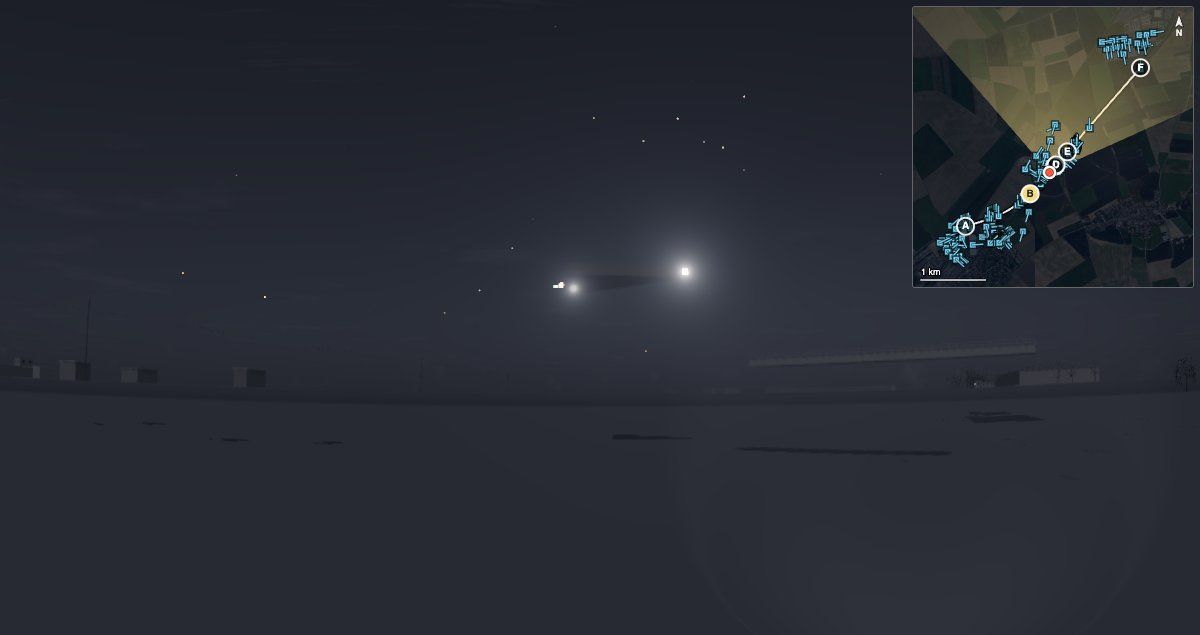
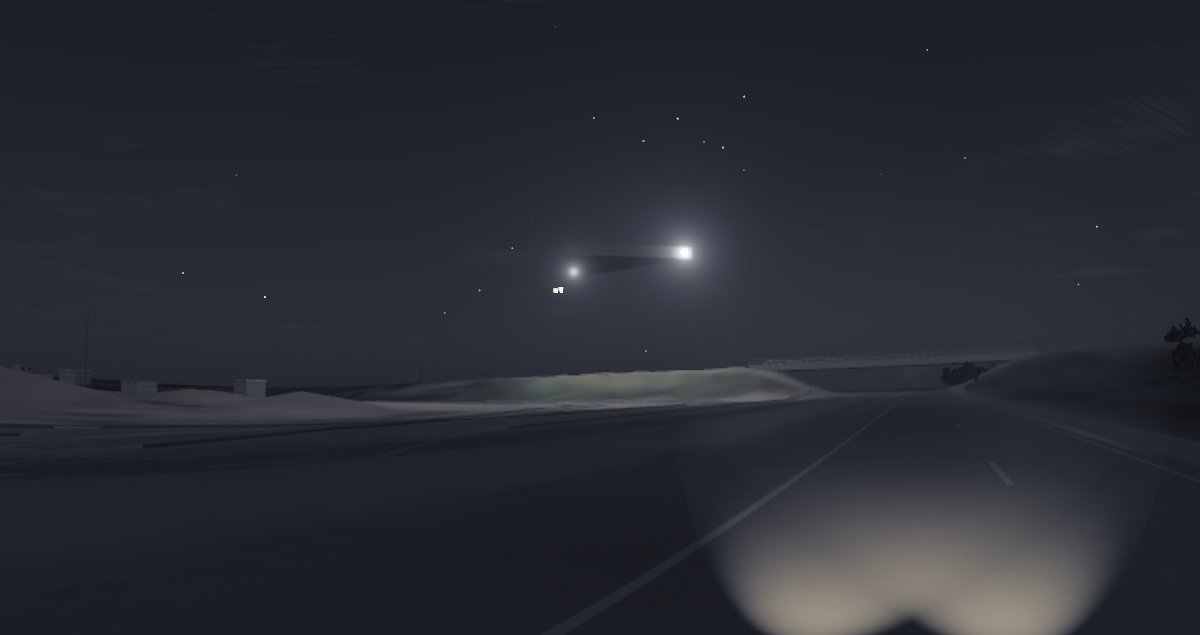
Sharper wide eye fields, ground under a recording opened late, grassy verges on tracks
- An eye wider than some 65 degrees tall is drawn through the cube: the single
  rectilinear source left its centre at 0.32 of a pixel per pixel at 75 degrees
  (Chelyabinsk's decor in blocks).
- The veil round a bright source lies across the line of sight to it, so every
  face of the cube draws the same disc (it ended on an arc).
- The frozen patch of relief is built for the last place asked while its list
  loads, not the first: Socorro and Silly opened late stood on flat ground.
- Tracks and paths: the grass of the verge reaches irregularly onto the earth.
- Covers redrawn without the observer's map, with their relief.

diff --git a/src/render3d/RoadSystem.ts b/src/render3d/RoadSystem.ts
@@ -10,6 +10,8 @@ export type GroundYAt = (x: number, z: number) => number
 
 /** Where a strip lies across its line at one rung: its middle, metres to the left of the direction of travel, and its half width. */
 type Lateral = { offsetM: number, halfM: number }
+/** Ribbons being laid for one mesh: their vertices and triangles, and for a track or a path where each vertex lies across its way (see RoadSystem.addGrain). */
+type RibbonBatch = { positions: number[], indices: number[], edges?: number[] }
 
 /** A street across, at one rung of its line, in metres to the left of the direction of travel (right is negative): the carriageway, and each pavement from its kerb to its outer edge. */
 interface StreetAcross {
@@ -158,11 +160,11 @@ export class RoadSystem {
     // is 490 — and five hundred draw calls to put down what is, visually, three materials would
     // cost more than everything else in the frame put together. They share a material anyway, so
     // there is nothing to lose by sharing a buffer.
-    const bySurface = new Map<RoadSurface, { positions: number[]; indices: number[] }>()
+    const bySurface = new Map<RoadSurface, RibbonBatch>()
     const paths = ways.map(way => way.points.map(point => geoToLocalMeters(point.lat, point.lng, originLat, originLng)))
     const streets = ways.map((way, at) => this.streetOf(way, paths[at], facades))
     for (const [at, way] of ways.entries()) {
-      const batch = bySurface.get(way.surface) ?? { positions: [], indices: [] }
+      const batch = bySurface.get(way.surface) ?? RoadSystem.batchFor(way.surface)
       bySurface.set(way.surface, batch)
       const street = streets[at]
       this.appendPath(paths[at], way.widthM, groundYAt, batch,
@@ -413,9 +415,9 @@ export class RoadSystem {
    */
   setStated(roads: StatedRoad[], groundYAt: GroundYAt): void {
     RoadSystem.empty(this.stated)
-    const bySurface = new Map<RoadSurface, { positions: number[]; indices: number[] }>()
+    const bySurface = new Map<RoadSurface, RibbonBatch>()
     for (const road of roads) {
-      const batch = bySurface.get(road.surface) ?? { positions: [], indices: [] }
+      const batch = bySurface.get(road.surface) ?? RoadSystem.batchFor(road.surface)
       bySurface.set(road.surface, batch)
       // z is the negated north axis, the same convention decor is placed under (see
       // GeoProjection, and SceneRenderer's own eastM/northM handling).
@@ -458,7 +460,7 @@ export class RoadSystem {
    * corner, and a road is mostly corners. The centre line is already in the patch's own metres.
    */
   private appendPath(
-    points: { x: number; z: number }[], widthM: number, groundYAt: GroundYAt, batch: { positions: number[]; indices: number[] },
+    points: { x: number; z: number }[], widthM: number, groundYAt: GroundYAt, batch: RibbonBatch,
     strip: {
       offsetM?: number, liftM?: number, minHalfM?: number, skip?: (x: number, z: number) => boolean,
       /** Where the strip lies across at each rung, in place of `offsetM` and the width: nothing is no strip at that rung. */
@@ -474,6 +476,7 @@ export class RoadSystem {
     const kept: boolean[] = []
     // Where each rung's three points stand on the ground plane: the left edge, the middle, the right edge.
     const rungs: { x: number; z: number }[][] = []
+    const halves: number[] = []
     for (let i = 0; i < centre.length; i++) {
       const before = centre[Math.max(0, i - 1)]
       const after = centre[Math.min(centre.length - 1, i + 1)]
@@ -491,6 +494,7 @@ export class RoadSystem {
       const middle = { x: centre[i].x + (-dz) * rungOffset, z: centre[i].z + dx * rungOffset }
       kept.push(lateral !== undefined && lateral.halfM > 0 && !strip.skip?.(middle.x, middle.z))
       rungs.push([{ x: middle.x + nx, z: middle.z + nz }, middle, { x: middle.x - nx, z: middle.z - nz }])
+      halves.push(rungHalf)
     }
     // A ribbon is flat between two points and the ground is not, and a road on an embankment is crowned: its middle stands higher than its edges. A
     // rung of two points laid a flat ribbon under the crown, and the ground showed through it in patches, which read as dark polygons lying on the road. So
@@ -510,6 +514,8 @@ export class RoadSystem {
     }
     for (let i = 0; i < rungs.length; i++) {
       for (let k = 0; k < 3; k++) batch.positions.push(rungs[i][k].x, heights[i][k] + lift, rungs[i][k].z)
+      // Left edge, middle, right edge: how far each is from the middle, and the half-width, for the grass of the verge (see addGrain).
+      batch.edges?.push(halves[i], halves[i], 0, halves[i], -halves[i], halves[i])
     }
     for (let i = 0; i < centre.length - 1; i++) {
       if (!kept[i] || !kept[i + 1]) continue
@@ -555,11 +561,18 @@ export class RoadSystem {
     }
   }
 
+  /** A batch of ribbons for one surface: with where each vertex lies across its way for a track or a path, whose verge is grass (see addGrain). */
+  private static batchFor(surface: RoadSurface): RibbonBatch {
+    return surface === "paved" ? { positions: [], indices: [] } : { positions: [], indices: [], edges: [] }
+  }
+
   /** All the roads of one surface as a single mesh — see set. */
-  private meshOf(surface: RoadSurface, batch: { positions: number[]; indices: number[] }, contemporary: boolean, albedoOf?: [number, number, number], grained = true): Mesh<BufferGeometry, MeshLambertMaterial> | undefined {
+  private meshOf(surface: RoadSurface, batch: RibbonBatch, contemporary: boolean, albedoOf?: [number, number, number], grained = true): Mesh<BufferGeometry, MeshLambertMaterial> | undefined {
     if (batch.indices.length === 0) return undefined
     const geometry = new BufferGeometry()
     geometry.setAttribute("position", new BufferAttribute(new Float32Array(batch.positions), 3))
+    const verge = batch.edges !== undefined && batch.edges.length * 3 === batch.positions.length * 2
+    if (verge) geometry.setAttribute("aEdge", new BufferAttribute(new Float32Array(batch.edges!), 2))
     geometry.setIndex(new BufferAttribute(new Uint32Array(batch.indices), 1))
     geometry.computeVertexNormals()
     const albedo = albedoOf ?? RoadSystem.ALBEDO[surface]
@@ -575,7 +588,7 @@ export class RoadSystem {
       polygonOffsetFactor: -2,
       polygonOffsetUnits: -2
     })
-    if (grained) this.addGrain(material, RoadSystem.GRAIN_CONTRAST[surface])
+    if (grained) this.addGrain(material, RoadSystem.GRAIN_CONTRAST[surface], verge)
     const mesh = new Mesh(geometry, material)
     mesh.name = `roads ${surface}`
     mesh.renderOrder = RoadSystem.RENDER_ORDER
@@ -591,18 +604,22 @@ export class RoadSystem {
    * surface's own metres (see GrassDetail on why not the world's), so that it goes by under a moving observer as a road does, and fading with the distance, as
    * each scale of it is let go of before it is finer than a pixel.
    */
-  private addGrain(material: MeshLambertMaterial, contrast: number): void {
+  private addGrain(material: MeshLambertMaterial, contrast: number, verge = false): void {
     const origin = this.grainOrigin
     material.onBeforeCompile = shader => {
       shader.uniforms.uRoadOrigin = { value: origin }
       shader.uniforms.uRoadContrast = { value: contrast }
+      if (verge) shader.defines = { ...shader.defines, ROAD_VERGE: "" }
       shader.vertexShader = shader.vertexShader
-        .replace("#include <common>", "#include <common>\nvarying vec2 vRoadXZ;\nuniform vec2 uRoadOrigin;")
-        .replace("#include <begin_vertex>", "#include <begin_vertex>\nvRoadXZ = position.xz + uRoadOrigin;")
+        .replace("#include <common>", "#include <common>\nvarying vec2 vRoadXZ;\nuniform vec2 uRoadOrigin;\n#ifdef ROAD_VERGE\nattribute vec2 aEdge;\nvarying vec2 vRoadEdge;\n#endif")
+        .replace("#include <begin_vertex>", "#include <begin_vertex>\nvRoadXZ = position.xz + uRoadOrigin;\n#ifdef ROAD_VERGE\nvRoadEdge = aEdge;\n#endif")
       shader.fragmentShader = shader.fragmentShader
         .replace("#include <common>", `#include <common>
 varying vec2 vRoadXZ;
 uniform float uRoadContrast;
+#ifdef ROAD_VERGE
+varying vec2 vRoadEdge;
+#endif
 float roadHash(vec2 p) {
   p = fract(p * vec2(123.34, 456.21));
   p += dot(p, p + 45.32);
@@ -623,10 +640,22 @@ float roadNoise(vec2 p) {
     + (roadNoise(vRoadXZ * 13.0) - 0.5) * 0.7 * (1.0 - smoothstep(9.0, 40.0, eye))
     + (roadNoise(vRoadXZ * 47.0) - 0.5) * 0.7 * (1.0 - smoothstep(2.5, 12.0, eye));
   diffuseColor.rgb *= 1.0 + grain * uRoadContrast;
+#ifdef ROAD_VERGE
+  // The verge: on a track or a path the grass of the field reaches onto the earth, in tufts and in tongues, and its edge is not a ruled line.
+  // Cut away where it does, so that the ground under it (its grass, see GrassDetail) is what is seen there. Near only: past some tens of
+  // metres the edge is under a pixel, and a cut there would only shimmer.
+  float vergeNear = 1.0 - smoothstep(20.0, 60.0, eye);
+  if (vergeNear > 0.0) {
+    float fromEdge = vRoadEdge.y - abs(vRoadEdge.x);
+    float reach = min(0.75, vRoadEdge.y * 0.4) * vergeNear
+      * (0.15 + 0.6 * roadNoise(vRoadXZ * 0.7) + 0.35 * roadNoise(vRoadXZ * 3.3) + 0.25 * roadNoise(vRoadXZ * 11.0));
+    if (fromEdge < reach) discard;
+  }
+#endif
 }`)
     }
     // A different program from every other Lambert material, which three tells apart by this key.
-    material.customProgramCacheKey = () => "rr0-road-grain"
+    material.customProgramCacheKey = () => verge ? "rr0-road-grain-verge" : "rr0-road-grain"
   }
 
   /**

diff --git a/src/render3d/EquidistantProjectionPass.ts b/src/render3d/EquidistantProjectionPass.ts
@@ -55,6 +55,14 @@ export class EquidistantProjectionPass {
    * exists to take away from an eye.
    */
   static readonly MAX_HALF_ANGLE_DEG = 80
+  /**
+   * The fewest pixels of the rectilinear source per pixel of the picture, at its centre, under which the cube is drawn instead (see
+   * centreDensity). The source has to reach the corners, so it spreads its pixels thinner the wider the field: 0.59 at 60° tall in 16:9,
+   * 0.42 at 70°, 0.32 at 75°, where the decor of Chelyabinsk was its render blown up three times, windows and firs in blocks. The cube's
+   * front face holds the picture's own density whatever the field, for some 50 % more to draw at 75° (2.5 → 3.7 ms at 780 × 440):
+   * from here, above some 65° tall, it is the sharper picture for its cost. The usual 60° keeps its single source.
+   */
+  static readonly MIN_CENTRE_DENSITY = 0.5
   /** The cube's faces never finer than this, whatever the frame — six of them are drawn per frame. */
   static readonly MAX_CUBE_FACE = 2048
 
@@ -228,7 +236,17 @@ export class EquidistantProjectionPass {
 
   /** Whether a field this wide can be served from one rectilinear source at all. */
   static supports(fovDeg: number, aspect: number): boolean {
-    return this.cornerHalfAngleDeg(fovDeg, aspect) <= this.MAX_HALF_ANGLE_DEG
+    return this.cornerHalfAngleDeg(fovDeg, aspect) <= this.MAX_HALF_ANGLE_DEG && this.centreDensity(fovDeg, aspect) >= this.MIN_CENTRE_DENSITY
+  }
+
+  /**
+   * How many pixels of the rectilinear source stand for one of the picture at its centre: the source's pixels per radian there,
+   * `(H/2)/tan(half its field)`, against the picture's, `H/field`, at the same height.
+   */
+  static centreDensity(fovDeg: number, aspect: number): number {
+    const cornerRad = (this.cornerHalfAngleDeg(fovDeg, aspect) * Math.PI) / 180
+    const sourceTanHalfY = Math.tan(cornerRad) / Math.hypot(aspect, 1)
+    return (fovDeg * Math.PI) / 180 / (2 * sourceTanHalfY)
   }
 
   resize(width: number, height: number): void {

diff --git a/src/render3d/SceneRenderer.ts b/src/render3d/SceneRenderer.ts
@@ -1687,6 +1687,8 @@ export class SceneRenderer {
 
   /** The list of frozen patches a build is waiting for, so that it is waited for once (see setTerrainOrigin). */
   private patchesAwaited?: TerrainPatchIndex
+  /** Where the observer was last asked to have ground under them while that list was awaited: what is built once it arrives (see setTerrainOrigin). */
+  private patchesAwaitedFor?: { lat: number, lng: number, onSettled?: () => void }
 
   /** The way the observer goes, as the recording's track gives it: what a bridge is to the ground depends on it (see ElevationHints). */
   private observerRoute?: readonly { lat: number; lng: number }[]
@@ -1737,13 +1739,18 @@ export class SceneRenderer {
     let frozenRadiusM: number | undefined
     if (patches) {
       if (!patches.loaded) {
+        // For the LAST place asked for, not the first: a recording opened at a later instant asks first for its start, then for where the observer
+        // is by then, and a paused scene asks nothing more (Socorro opened at 87 s stood on flat ground, a kilometre from the patch of its start).
+        this.patchesAwaitedFor = { lat, lng, onSettled }
         // Asked once per list, not at every tick it is awaited; and held for, as the patch itself is (see awaitArrival).
         if (this.patchesAwaited !== patches) {
           this.patchesAwaited = patches
           const providers = this.terrainProviders
           // The build asked from within the wait, so that the frame held for the list is still held for the patch.
           void this.awaitArrival(patches.ready.then(() => {
-            if (this.terrainProviders === providers) this.setTerrainOrigin(lat, lng, onSettled)
+            const asked = this.patchesAwaitedFor
+            this.patchesAwaitedFor = undefined
+            if (this.terrainProviders === providers && asked) this.setTerrainOrigin(asked.lat, asked.lng, asked.onSettled)
           }), SceneRenderer.TERRAIN_PATIENCE_MS)
         }
         return

diff --git a/src/render3d/Veil.ts b/src/render3d/Veil.ts
@@ -106,7 +106,13 @@ export class Veil {
     void main() {
       vOffset = position.xy;
       vec4 centre = modelViewMatrix * vec4(0.0, 0.0, 0.0, 1.0);
-      centre.xy += position.xy * uTanRadius * length(centre.xyz);
+      // Across the line of sight to the source, not across the camera's axis: the same disc round the source for every camera that draws it,
+      // and its angles exact. Laid in the camera's own plane, it was not drawn at all by a face of the eye's cube that sees the source from the side
+      // (see EquidistantProjectionPass), and the veil of the Chelyabinsk bolide ended on an arc where that face began.
+      vec3 toward = normalize(centre.xyz);
+      vec3 across = normalize(cross(toward, abs(toward.y) < 0.99 ? vec3(0.0, 1.0, 0.0) : vec3(1.0, 0.0, 0.0)));
+      vec3 up = cross(across, toward);
+      centre.xyz += (across * position.x + up * position.y) * uTanRadius * length(centre.xyz);
       gl_Position = projectionMatrix * centre;
     }
   `

diff --git a/test/render3d/EquidistantProjectionPass.test.ts b/test/render3d/EquidistantProjectionPass.test.ts
@@ -76,3 +76,15 @@ describe("EquidistantProjectionPass.faceRegions", () => {
     }
   })
 })
+
+describe("EquidistantProjectionPass.supports", () => {
+  it("draws through the cube once a single source would blow its centre up, not only once it cannot reach the corners", () => {
+    expect(EquidistantProjectionPass.centreDensity(60, 16 / 9)).toBeCloseTo(0.59, 2)
+    expect(EquidistantProjectionPass.centreDensity(75, 16 / 9)).toBeCloseTo(0.32, 2)
+    // The usual eye keeps its single source; Chelyabinsk's 75° no longer draws its decor three times too big.
+    expect(EquidistantProjectionPass.supports(60, 16 / 9)).toBe(true)
+    expect(EquidistantProjectionPass.supports(62, 16 / 9)).toBe(true)
+    expect(EquidistantProjectionPass.supports(70, 16 / 9)).toBe(false)
+    expect(EquidistantProjectionPass.supports(75, 16 / 9)).toBe(false)
+  })
+})

diff --git a/test/engine/model/DecorParameterSets.test.ts b/test/engine/model/DecorParameterSets.test.ts
@@ -23,7 +23,7 @@ describe("DecorParameterSets", () => {
     // A building that states no facade has a house's walls from a storey high (see DecorSystem.facadeOf): its kind is asked of every building,
     // a bare wall or none among them, which is how a warehouse written by hand says it has no windows.
     expect(shown("facade.openings", {})).toBe(true)
-    const kinds = (set.parameters.find(spec => spec.key === "facade.openings") as { choices: { value: string }[] }).choices.map(choice => choice.value)
+    const kinds = (set.parameters.find(spec => spec.key === "facade.openings") as unknown as { choices: { value: string }[] }).choices.map(choice => choice.value)
     expect(kinds).toEqual(["tall", "lancet", "plain", "none"])
   })
 

diff --git a/scripts/share-cards/capture.html b/scripts/share-cards/capture.html
@@ -19,6 +19,8 @@
   const stage = document.getElementById("stage")
   // The scene itself is photographed, never the recording's cover picture (see SceneElement.showPoster).
   stage.sceneElement.showPoster = () => {}
+  // Nor the map of where the observer stood, closed on a card (see DemoSectionPage) and over the sky in a corner of a still.
+  stage.setAttribute("show-observer-map", "false")
   if (query.get("t")) stage.setAttribute("start-time", query.get("t"))
   stage.setAttribute("src", query.get("src"))
   window.__stage = stage
